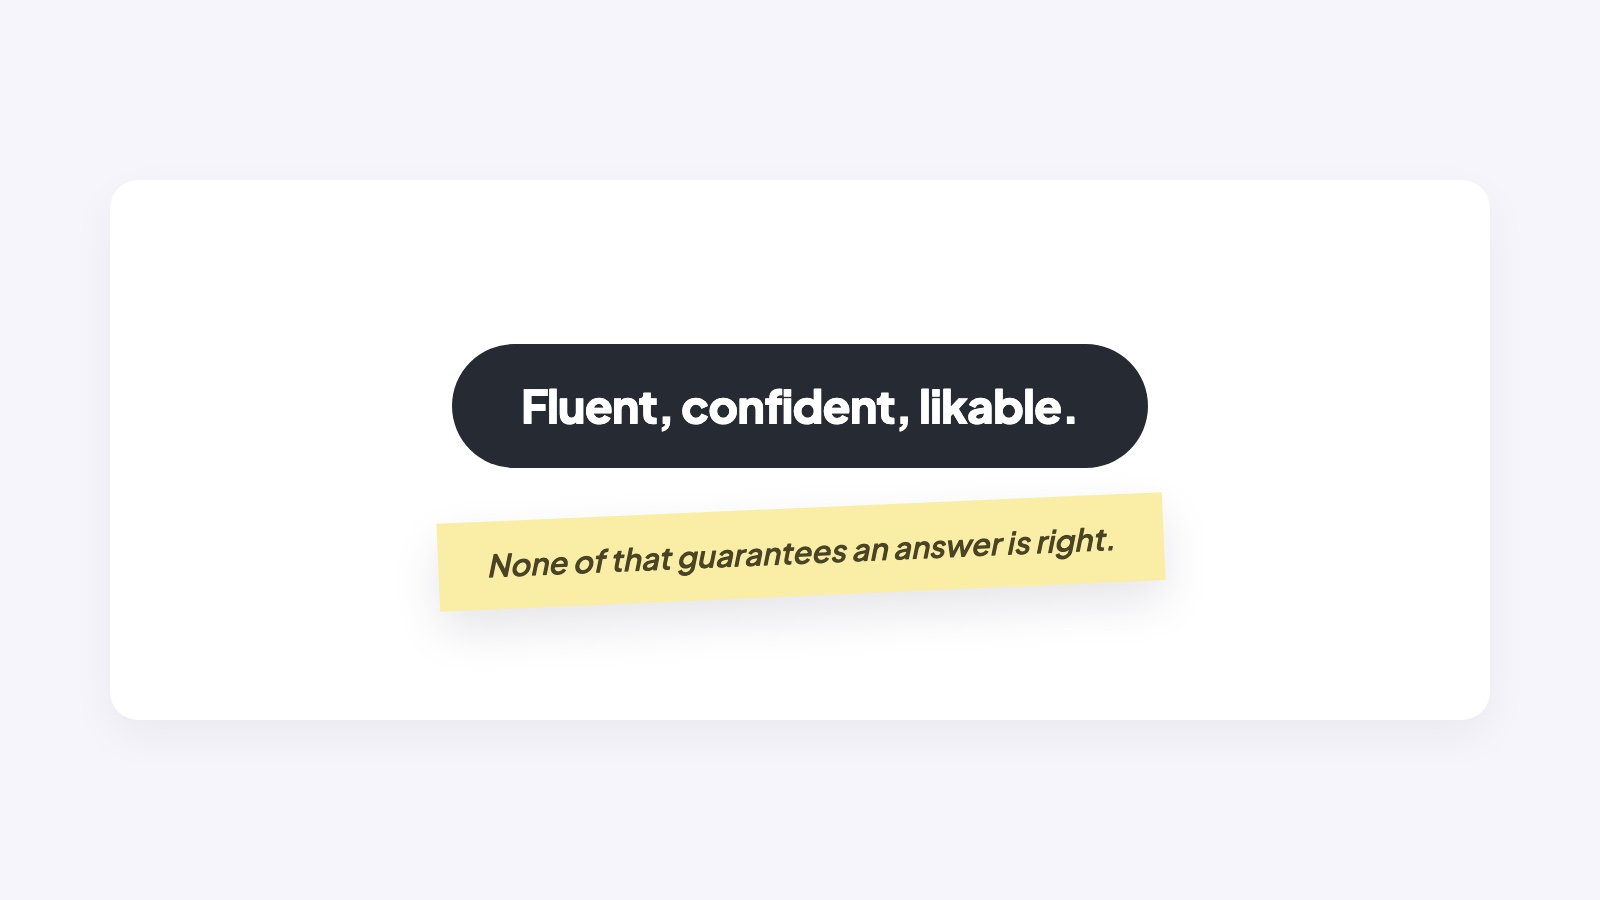
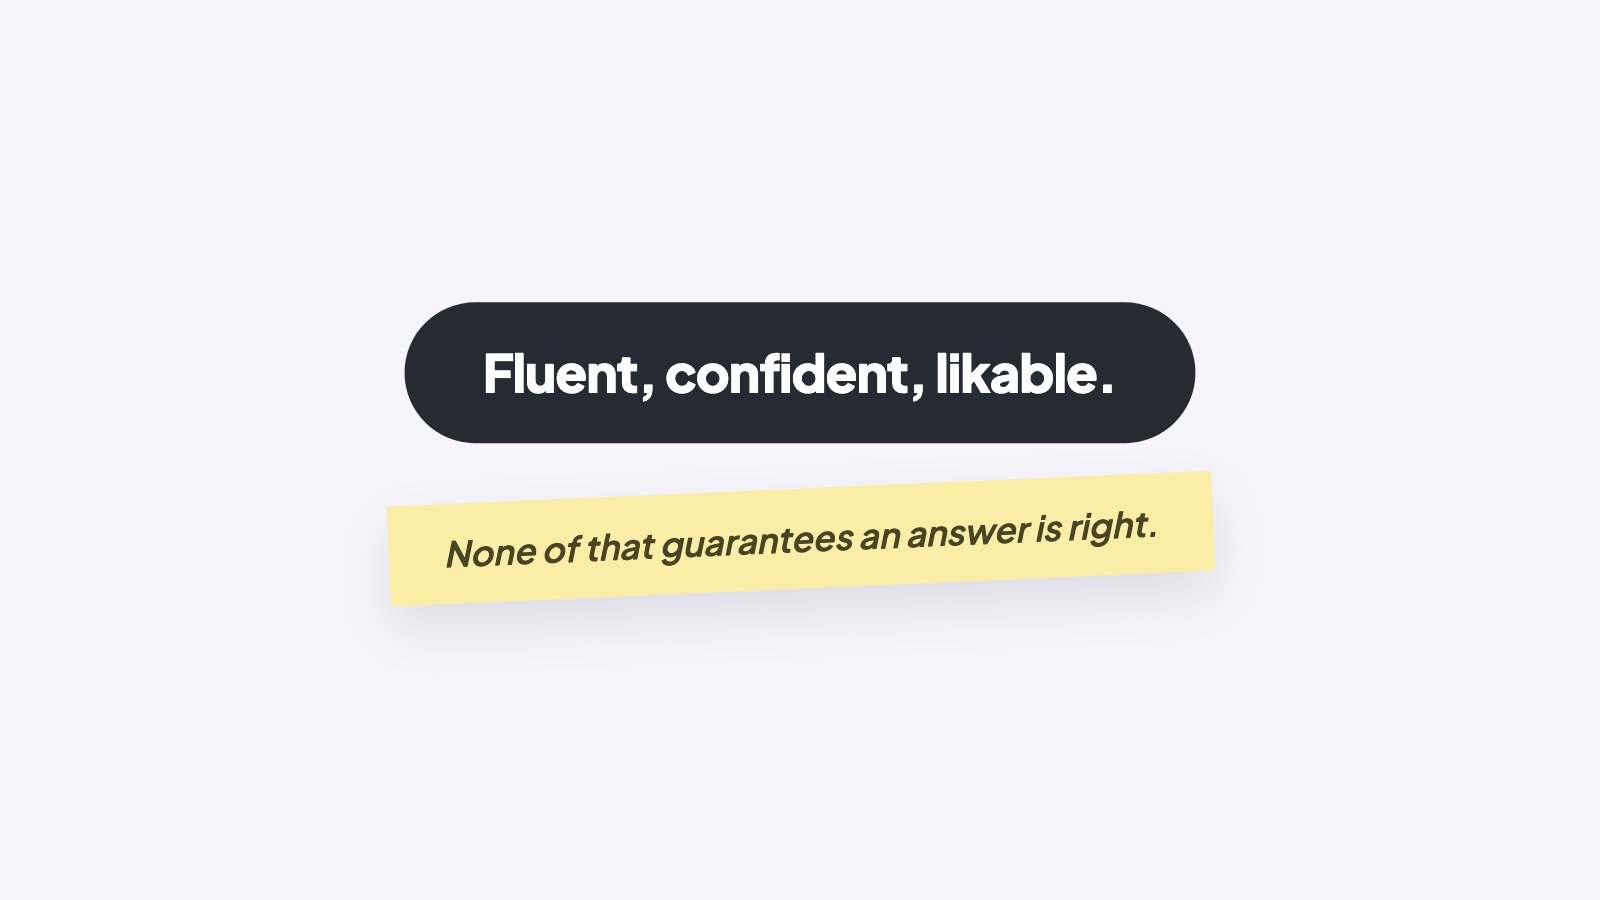
Recapture the training and where-ai-works-best close boards
Both had the right pill and sticky, but they were captured through
capture-board.sh's white composition card. That card sits inset inside the
frame, so the board it wraps ends up smaller than the page renders it: pill
width 43.5% and 44.5% against a catalogue median of 56.4%. Recomposed on the
page background like the other close boards.

They now measure 49.4% and 50.5%, not 56%, and that is correct rather than a
shortfall. The pill is sized by its own text, so short copy lands narrower.
"Fluent, confident, likable." is a much shorter line than "Don't just use AI.
Work with it." make_close_board.py does the same thing deliberately, letting
short pills come in narrow instead of inflating the font to fill a target
width. Forcing these to 56% would have made their text larger relative to the
frame than every other board in the set.

No close board in the catalogue is now under 47.8%, and the two that were
outliers sit inside the natural range.

board-specs.tsv rows updated to match the new selectors, so both can be re-cut.

Changed region(s): [[0.2188, 0.3111, 0.7812, 0.6844]]

diff --git a/scripts/capture-page-boards.js b/scripts/capture-page-boards.js
@@ -73,6 +73,15 @@ const BOARDS = [
   // (one contiguous string, only present in the CloseBoard) forces the right element.
   { section: "openerworkwith", out: "opener-work-3-close.jpg", width: 560, vw: 704,
     find: ["Don\u2019t just use AI. Work with it.", "It doesn\u2019t replace your thinking. It multiplies it."] },
+
+  // training + where-ai-works-best closes: correct boards, but captured through
+  // capture-board.sh's white composition card, which insets them and shrank the pill
+  // to 43-45% of frame against a 56% catalogue median. Recomposed on the page
+  // background. Stage width is what sets the pill fraction, not the slot width.
+  { section: "training", out: "training-close.jpg", width: 560, vw: 704,
+    find: ["Fluent, confident, likable.", "None of that guarantees an answer is right."] },
+  { section: "whatitdoesbest", out: "where-ai-works-best-5-close.jpg", width: 560, vw: 704,
+    find: ["\u201cCan try\u201d is not \u201cbuilt for.\u201d", "Fluent with the common version, not always the best."] },
 ];
 
 const compose = (preds, width, vw) => `(function(){
